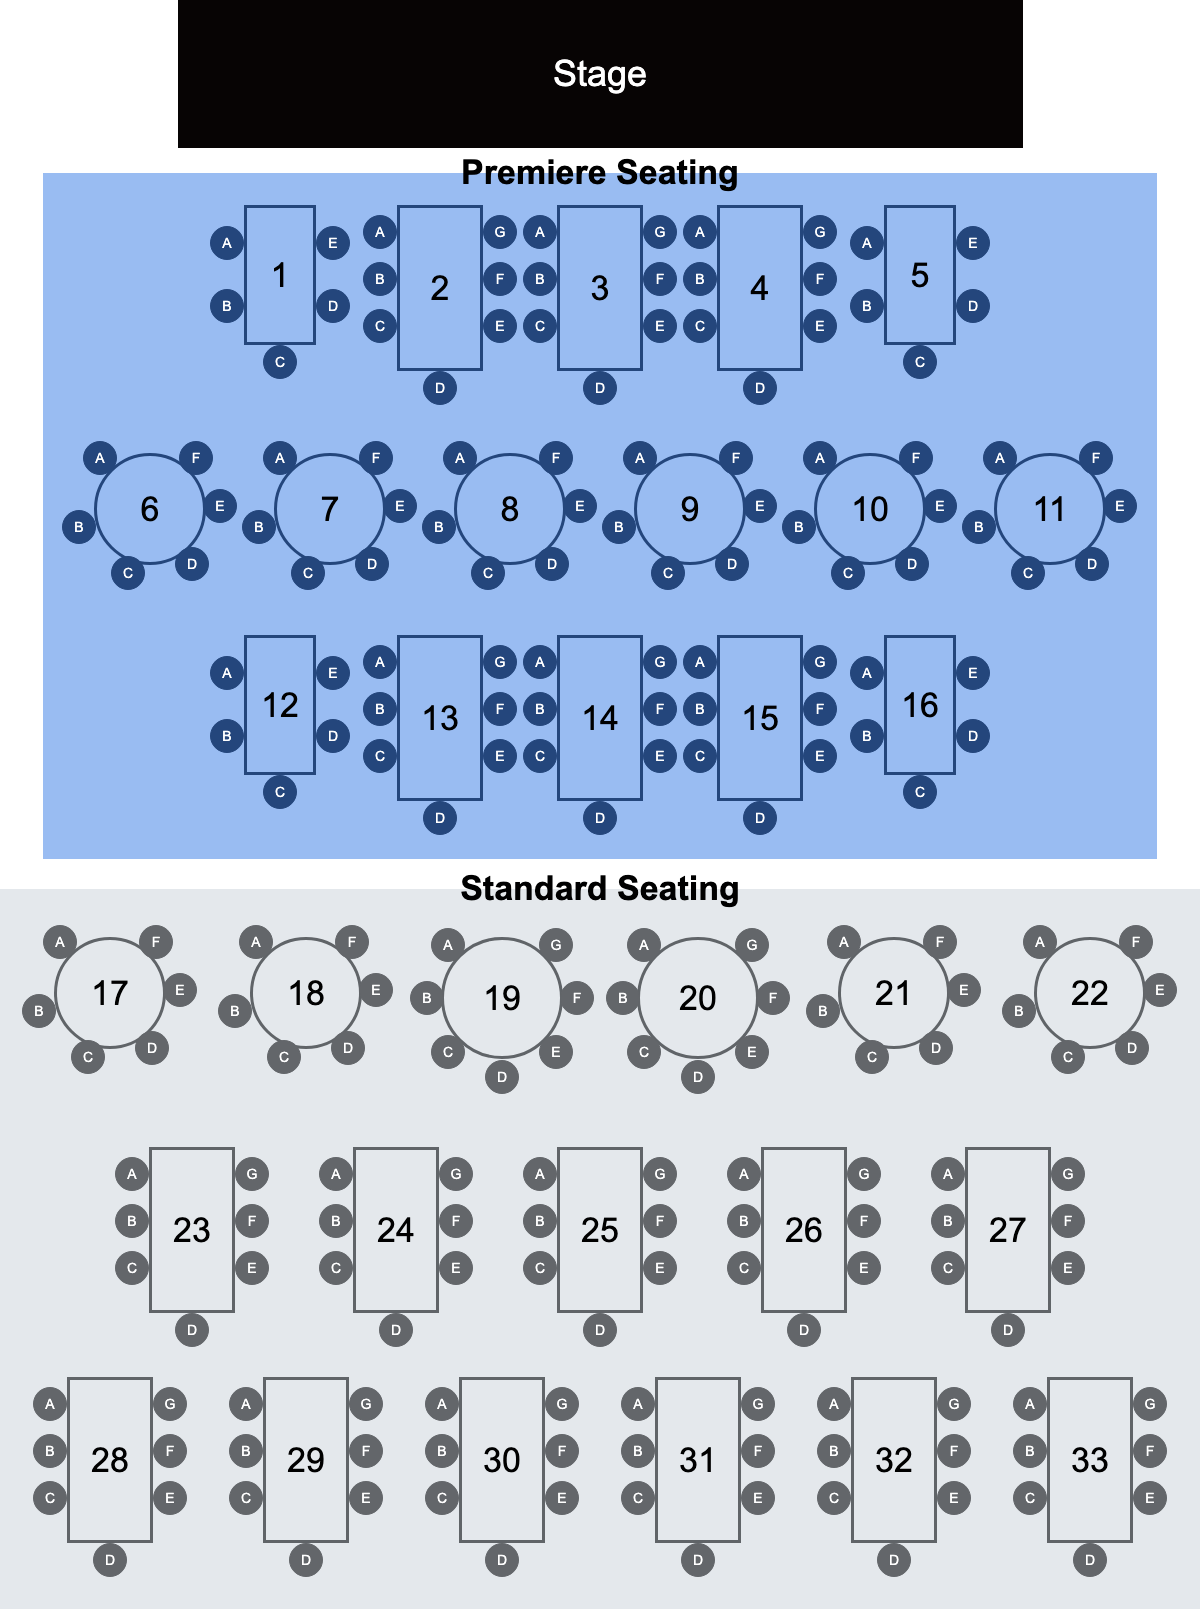
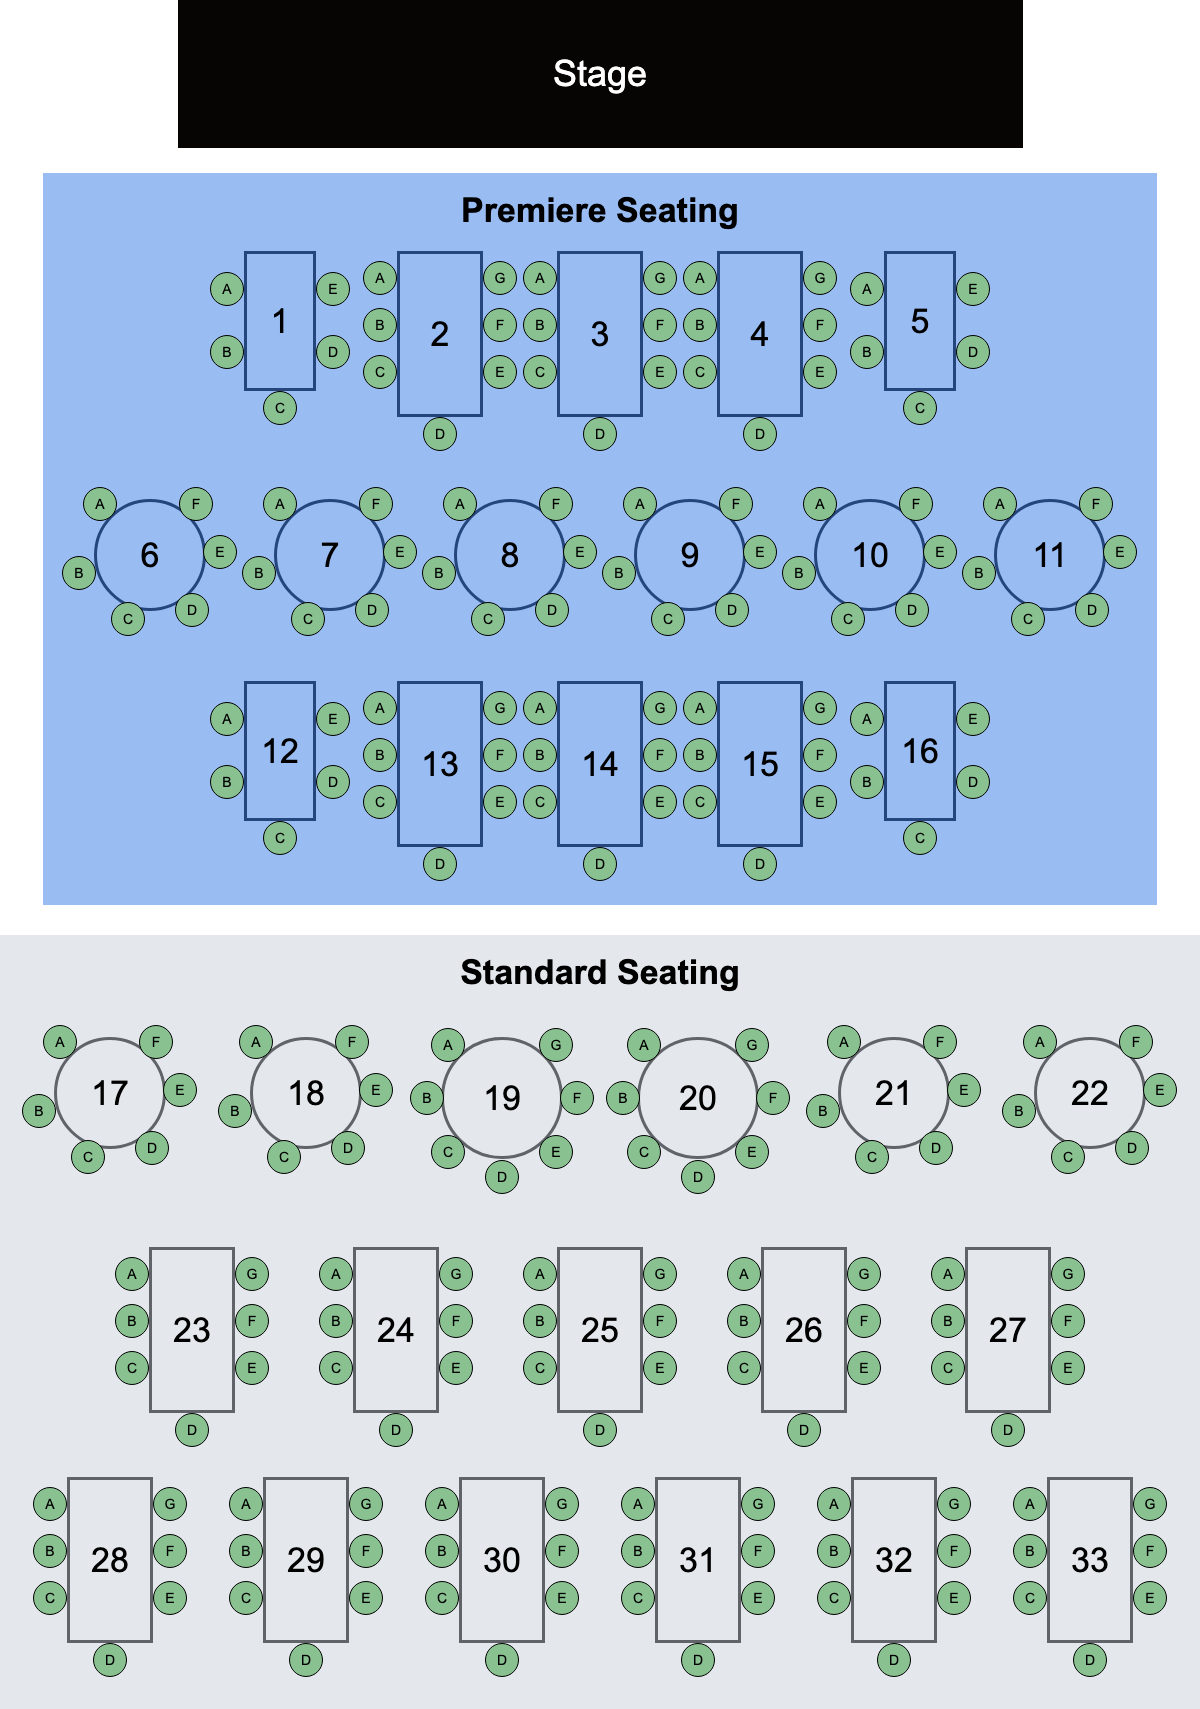
fix: use default seat colors and inset venue headings

Changed region(s): [[0.0, 0.404, 1.0, 0.9944], [0.0308, 0.0311, 0.9558, 0.4972], [0.1542, 0.404, 0.2158, 0.4661]]

diff --git a/html/68591.html b/html/68591.html
@@ -29,27 +29,21 @@
 
   #venue-68591 .premiere-seating {
     --table-outline: #24467c;
-    --available-seat: #24467c;
     width: 1114px;
-    padding: 32px 16px 24px;
+    padding: 16px 16px 24px;
     background-color: #99bcf2;
   }
 
   #venue-68591 .standard-seating {
     --table-outline: #606468;
-    --available-seat: #63666a;
     width: 1200px;
     margin-top: 30px;
-    padding: 24px 12px 32px;
+    padding: 16px 12px 32px;
     background-color: #e4e8ec;
   }
 
   #venue-68591 .seating-heading {
-    position: absolute;
-    top: -22px;
-    left: 0;
-    width: 100%;
-    margin: 0;
+    margin: 0 0 20px;
     padding: 0;
     color: #000;
     font-family: Arial, sans-serif;
@@ -170,14 +164,6 @@
     font-size: 14px;
     line-height: 32px;
     text-align: center;
-  }
-
-  #venue-68591 .seatCharts-seat.available:not(
-    .selected, .focused, .unavailable, .empty, .wheelchair, .handicap, .companion, .obstructed
-  ) {
-    background-color: var(--available-seat);
-    border-color: var(--available-seat);
-    color: #fff;
   }
 
   #venue-68591 .rectangle-five .seat-a {
